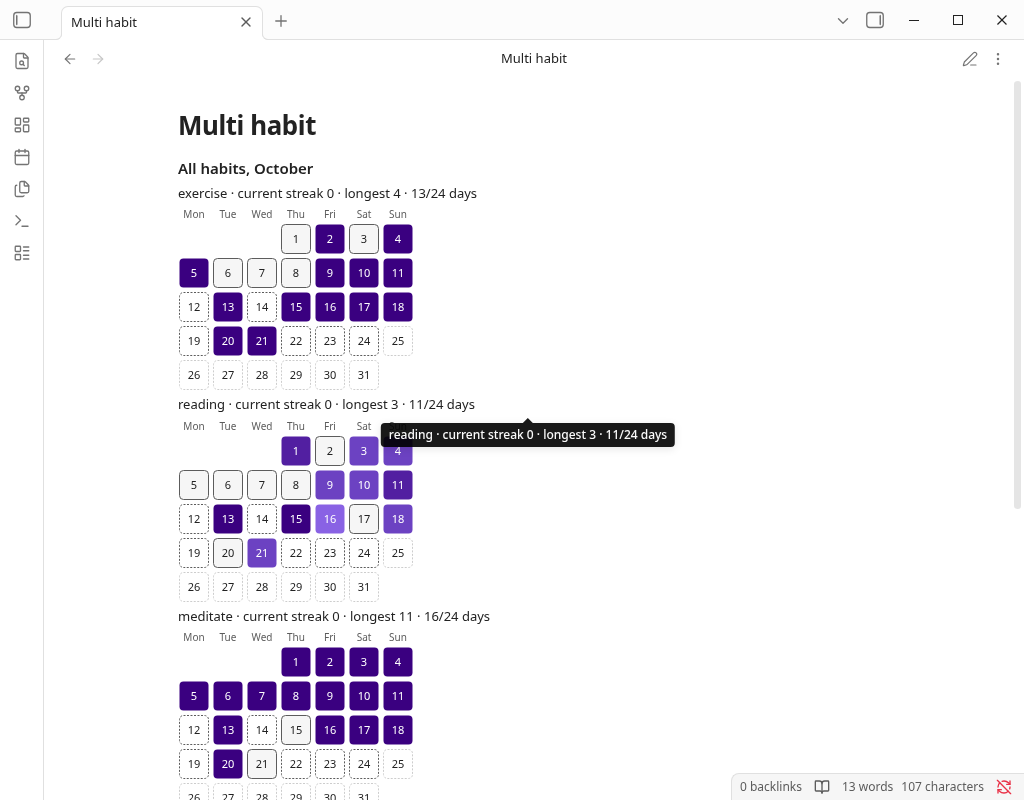
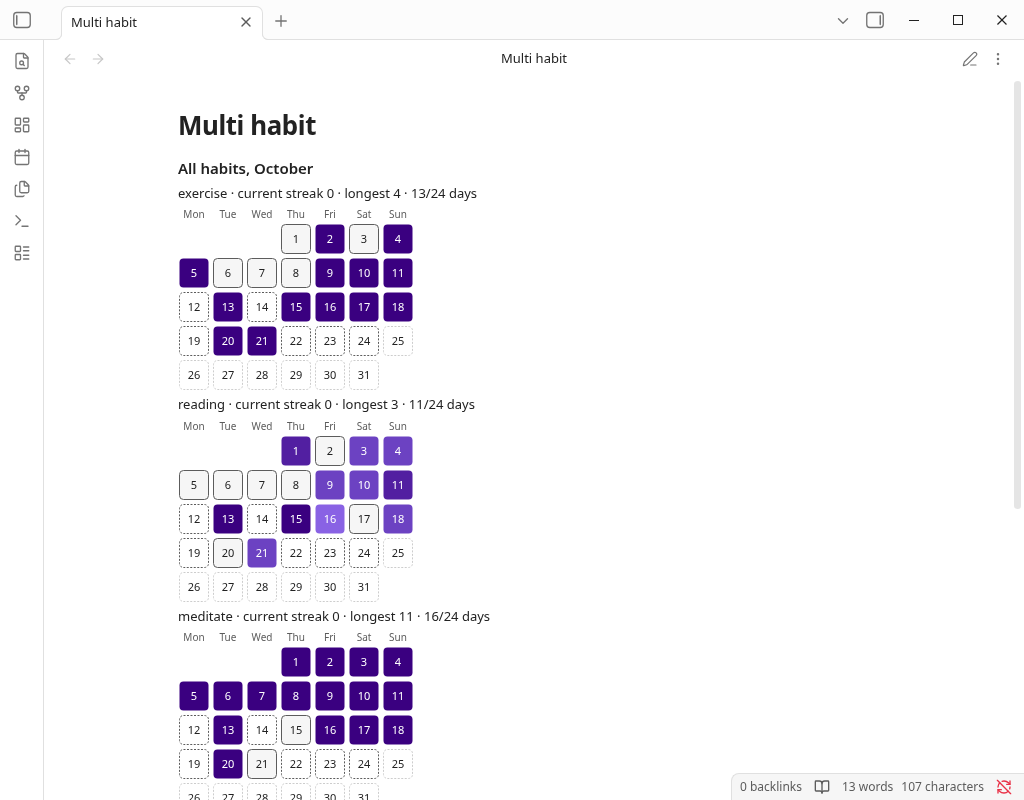
0.2.0: exact Japan wording (manual refund by email, no automatic-refund promise); retake Pro screenshot without tooltip

Changed region(s): [[0.3438, 0.5, 0.6562, 0.5625]]

diff --git a/src/settings.ts b/src/settings.ts
@@ -242,7 +242,8 @@ export class StreakwiseSettingTab extends PluginSettingTab {
 					desc: 'Month, week, quarter and year-to-date views, several habits per block, and PNG export. '
 						+ 'One-time purchase, includes all future updates: US$19 (plus VAT/sales tax where applicable, shown at checkout), '
 						+ 'use it on up to 5 devices, full refund within 14 days. '
-						+ 'Pro checks the key online about once a day and works offline for up to 7 days. Checkout by Polar. Not available in Japan.',
+						+ 'Pro checks the key online about once a day and works offline for up to 7 days. Checkout by Polar. '
+						+ 'Not available in Japan. If you were charged from Japan by mistake, email support@formchime.com for a full refund.',
 					visible: () => this.buyVisible(),
 					render: (st) => {
 						st.addButton((b) => b.setButtonText('Buy Pro – US$19').onClick(() => { window.open(CHECKOUT_URL); }));

diff --git a/README.md b/README.md
@@ -68,7 +68,7 @@ The command **Insert heatmap block** adds a starter block.
 - No account is required to use the plugin. The **Buy Pro** button opens https://formchime.com/api/checkout?product=streakwise-pro, which redirects to a Polar checkout; checkout creates a customer record with Polar (email).
 - A key can be active on **5 devices**. A new device does not activate by itself: paste the key in Settings → Streakwise → Pro license and press **Activate**. Need a 6th device? Deactivate an old one in the Polar customer portal (https://polar.sh/formchime/portal), then press **Activate** on the new device. A device released in the portal locks Pro at its next online check and is **not** re-activated automatically; press **Activate** there if you want it back. Pressing **Remove** in Streakwise also releases that device's slot (if the release can't reach Polar, the key is still removed locally and you can release the slot in the portal).
 - **Refunds:** Full refund within 14 days, just email support@formchime.com (or reply to your Polar receipt email). After a refund the license key is revoked and Pro features lock again; the free yearly heatmap keeps working.
-- Streakwise Pro is not sold to customers in Japan. Checkout is blocked based on your location (IP country) and billing country. The free features work everywhere.
+- Not available in Japan. If you were charged from Japan by mistake, email support@formchime.com for a full refund. The free features work everywhere.
 
 ## Network use disclosure
 
